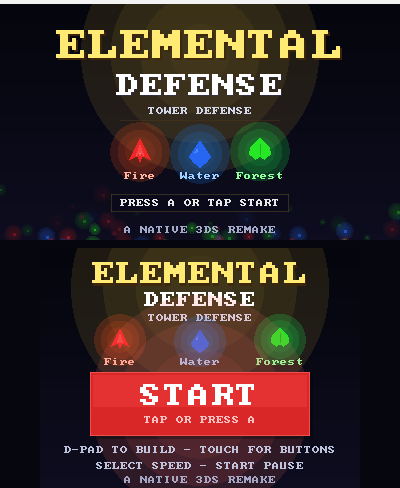
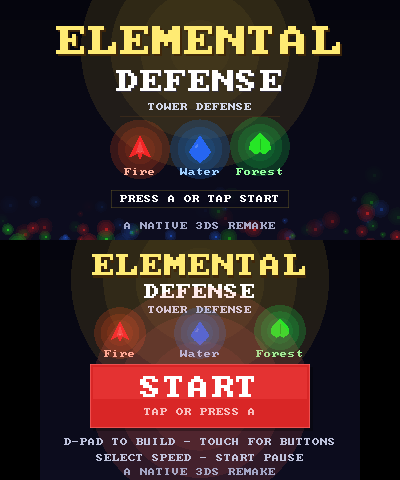
readme: use the fixed emulator screenshots (maze, combat, menu)

Changed region(s): [[0.0, 0.0, 1.0, 0.9688], [0.81, 0.4062, 1.0, 0.5], [0.24, 0.6562, 0.27, 0.6875]]

diff --git a/README.md b/README.md
@@ -41,11 +41,9 @@ you can build as long as you like before calling the next one in.
 
 ## Screenshots
 
-Top screen above, touchscreen below. The menu is a capture of the actual `.3dsx` running in Azahar;
-the two gameplay shots come from the game's PC preview harness, which renders through the same
-`game.h`/`gfx.h` frame code as the 3DS backend (so the layout is exactly what the console draws).
+Straight out of Azahar, top screen above and touchscreen below, running the v0.2 build:
 
-| Menu (in Azahar) | Build phase, roadway rerouted | Creeps walking the detour |
+| Menu | Build phase, road walled off and rerouted | Creeps walking the long way round |
 |---|---|---|
 | ![menu](docs/screenshots/menu.png) | ![build phase](docs/screenshots/build.png) | ![combat](docs/screenshots/wave.png) |
 
